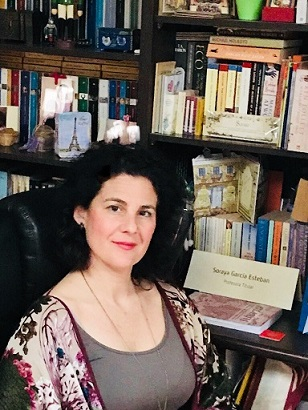
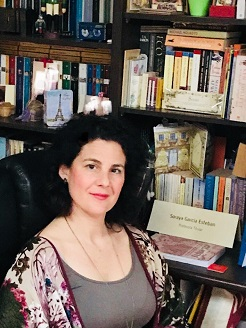
Updated UAH

diff --git a/consortium/uah.html b/consortium/uah.html
@@ -68,7 +68,7 @@
 								She has participated in different research projects related to these topics and has published numerous international scientific articles on these issues. 
 								She also collaborates as reviewer in journals like, Transportation Research A, Transport Reviews, Transport Policy. Currently she is the editor of a Special Issue in the journal Research in Transportation Economics. 
 								She has received the award Campus de Excelencia Internacional “Energía Inteligente” of the University of Alcalá and the University Rey Juan Carlos in 2015.</blockquote></p>
-								<p><span class="image right"><img src="uah/soraya.jpg" style="min-width: calc(40% - 20px);" alt="" /></span>
+								<p><span class="image right"><img src="uah/soraya.jpg" alt="" /></span>
 								<blockquote><b>Soraya García</b> holds a Ph.D. in Modern Languages, Literature and Translation from Universidad de Alcalá and a M.A. from University of the West of England. 
 								She is a full-time Teacher Trainer, undergraduate and postgraduate lecturer in EAP, CLIL & TEFL Methodology, and current Degree Coordinator at UAH-Faculty of Education. 
 								She is involved in international research projects related to Online Teaching and competence development through ESP and TPACK by integrating technology, pedagogy and content knowledge in foreign language teaching.</blockquote></p>
